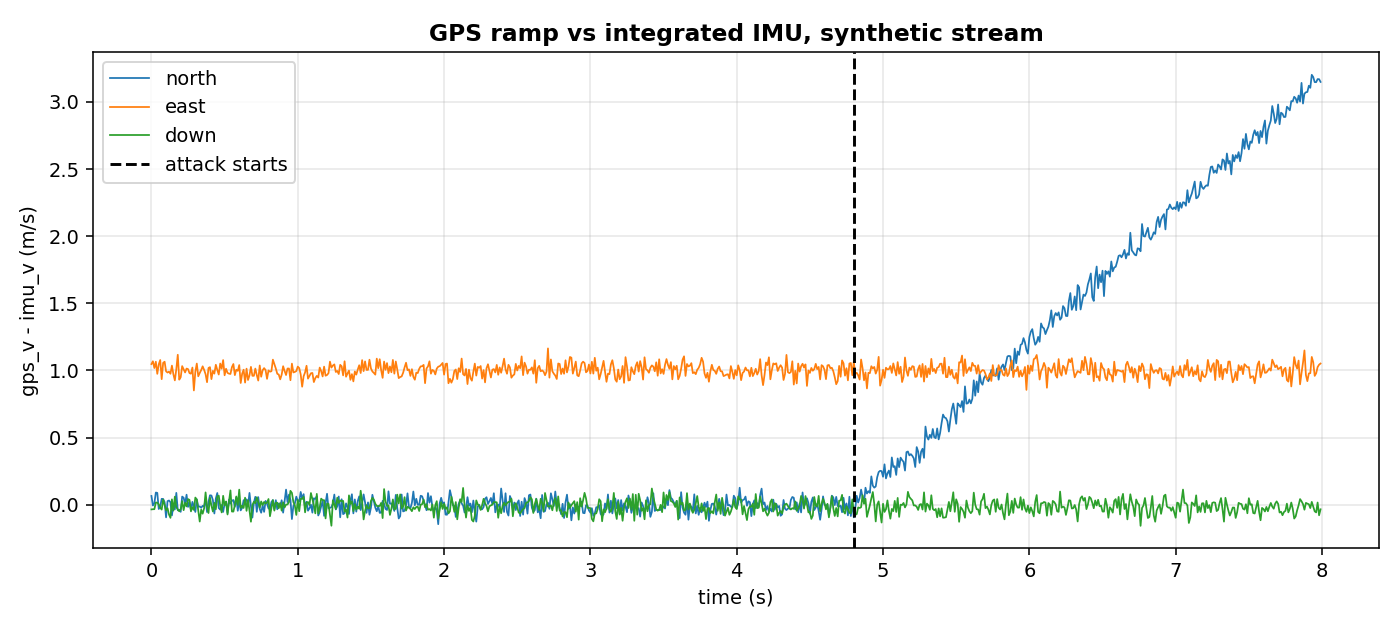
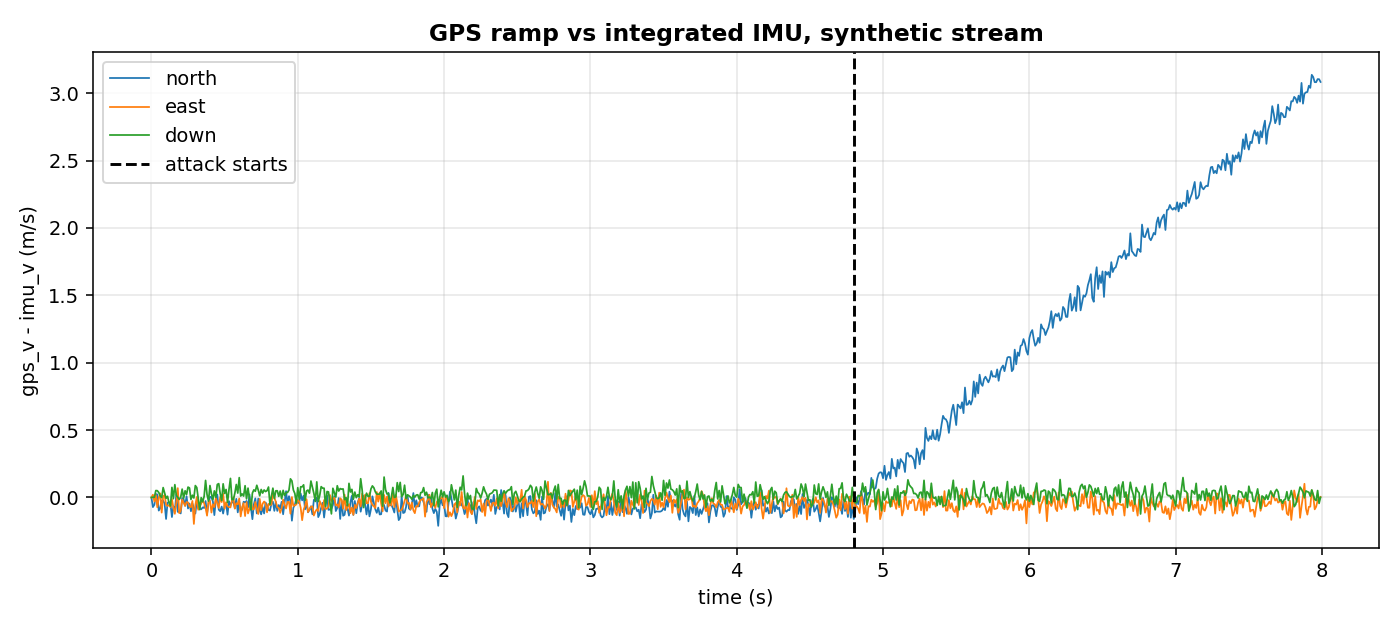
taskD1 B1+B2 fix: deterministic runs, self-contained code blocks, full pages - actuator_fault: Mahalanobis seed=0 for reproducible scores - sensor_consistency: imu_v anchored to first gps_v (no offset from trajectory speed) - both pages: 3 MATCH code blocks, full Details, mkdocs build --strict 0 - v

diff --git a/pipelines/drones/sensor_consistency.py b/pipelines/drones/sensor_consistency.py
@@ -8,8 +8,10 @@ estimated by IMU sensors and GPS by averaging the Euclidean
 distance between each deviation sample". This pipeline does the
 same comparison in software, on velocity instead of position:
 
-1. Integrate the accelerometer (with gravity removed) to get an
-   IMU-only velocity estimate.
+1. Start the IMU velocity from the first GPS velocity (the same
+   anchoring an EKF does), then integrate the accelerometer with
+   gravity removed. The integration gives the change in velocity;
+   the anchor makes it the absolute velocity.
 2. The residual is ``gps_v - imu_v``, one three-vector per sample.
 3. The score is the Euclidean norm of the residual, matching the
    "Euclidean distance" of the paper.
@@ -132,7 +134,7 @@ def run(
     fault_index = -1
     fault_kind: str | None = None
 
-    imu_v = np.zeros(3)
+    imu_v: np.ndarray | None = None
     prev_t: float | None = None
 
     for i, sample in enumerate(stream):
@@ -148,7 +150,9 @@ def run(
             continue
         acc = np.asarray(acc, dtype=float)
         gps_v = np.asarray(gps_v, dtype=float)
-        if prev_t is not None:
+        if imu_v is None:
+            imu_v = gps_v.copy()
+        elif prev_t is not None:
             dt = t - prev_t
             if dt > 0:
                 imu_v = imu_v + (acc - GRAVITY_NED) * dt

diff --git a/pipelines/drones/actuator_fault.py b/pipelines/drones/actuator_fault.py
@@ -74,6 +74,7 @@ DEFAULT_MAHA = {
     "n_init": 100,
     "threshold": 7.0,
     "feature_keys": RESIDUAL_KEYS,
+    "seed": 0,
 }
 
 

diff --git a/docs/drones/sensor_consistency.md b/docs/drones/sensor_consistency.md
@@ -12,9 +12,9 @@ A single-sample threshold would fire on every noisy sample. A drift detector fir
 
 | Tool | Its one job | Example |
 |---|---|---|
-| Integrated IMU | Estimate the velocity from the accelerometer | `imu_v` after 1 s of integration |
-| Residual | `gps_v - imu_v`, three components | `[0.89, 1.02, -0.05]` m/s at the attack |
-| CUSUMDriftDetector | Fire when the residual norm changes | 3 episodes, 0.44 / 1.61 / 2.81 s after the attack |
+| Integrated IMU | Estimate the velocity from the accelerometer | imu_v after 8 s of integration |
+| Residual | gps_v minus imu_v, three components | [1.68, -0.03, -0.02] m/s at 1.70 s after the attack |
+| CUSUMDriftDetector | Fire when the residual norm changes | 3 episodes, 0.28 / 1.47 / 2.67 s after the attack |
 
 ![Three components of gps_v minus imu_v, synthetic stream, with the attack marked](../assets/drones/sensor_consistency_residual.png)
 
@@ -22,7 +22,7 @@ A single-sample threshold would fire on every noisy sample. A drift detector fir
 
 ## 1. The IMU velocity
 
-The accelerometer measures the linear acceleration in the body frame, which the library's `synthetic_flight` gives in the NED frame. Removing gravity and integrating in time gives the velocity that the drone would have without the GPS.
+The accelerometer measures linear acceleration. The IMU velocity starts from the first GPS velocity (the same anchoring an EKF does when it has a GPS fix) and then integrates the acceleration minus gravity.
 
 ```python
 import numpy as np
@@ -30,11 +30,114 @@ from pipelines.drones.io import synthetic_flight
 from pipelines.drones.sensor_consistency import GRAVITY_NED
 
 stream = list(synthetic_flight(n=800, seed=0, fault="gps_ramp"))
-imu_v = np.zeros(3)
+imu_v = None
 prev_t = None
 for s in stream:
     t = s["t"]
-    if prev_t is not None and t > prev_t:
-        imu_v = imu_v + (np.asarray(s["acc"]) - GRAVITY_NED) * (t - prev_t)
+    acc = np.asarray(s["acc"])
+    if imu_v is None:
+        imu_v = np.asarray(s["gps_v"]).copy()
+    elif prev_t is not None and t > prev_t:
+        imu_v = imu_v + (acc - GRAVITY_NED) * (t - prev_t)
     prev_t = t
 print(np.round(imu_v, 2))
+```
+
+```
+[-0.92  0.02 -0.02]
+```
+
+Anchoring to the first GPS velocity is what makes the integration absolute instead of a mere change. Without it, `imu_v` starts at zero while the drone is already moving at 1 m/s east: the residual `gps_v - imu_v` would carry a constant ~1 m/s offset on the east axis that is not the attack.
+
+## 2. The residual
+
+The residual is the difference between the GPS velocity and the integrated IMU velocity, one three-vector per sample. Under a healthy GPS it is zero up to noise; under a spoofer it grows.
+
+```python
+import numpy as np
+from pipelines.drones.io import synthetic_flight
+from pipelines.drones.sensor_consistency import run
+
+stream = list(synthetic_flight(n=800, seed=0, fault="gps_ramp"))
+r = run(stream)
+print(np.round(r.residual[650], 3))
+```
+
+```
+[ 1.678 -0.027 -0.016]
+```
+
+At sample 650 (1.70 s after the attack) the residual is almost all in the north component: the attacker pushes the north velocity, and the IMU integration, which sees only the true acceleration, stays close to the truth. The east and down components stay near zero.
+
+## 3. A drift detector on the residual norm
+
+The score is the Euclidean norm of the residual. This is the same quantity that SemperFi's correlator approximates with its hardware architecture (section 3.2, page 4: "compares the track estimated by IMU sensors and GPS by averaging the Euclidean distance between each deviation sample"). Here the comparison is in software, on velocity, per sample.
+
+```python
+from pipelines.drones.io import synthetic_flight
+from pipelines.drones.sensor_consistency import run
+
+stream = list(synthetic_flight(n=800, seed=0, fault="gps_ramp"))
+r = run(stream)
+print(r.n_episodes, [round(d, 2) for d in r.delays_s])
+```
+
+```
+3 [0.28, 1.47, 2.67]
+```
+
+The attack starts at sample 480 (second 4.80). The detector raises three episodes, at 0.28 s, 1.47 s, and 2.67 s after the attack. The increasing spacing is the signature of a gradual attack: after each alarm the reference is reset, the residual grows again, and the detector fires again when the accumulated deviation passes the threshold. A sustained spoofing attack is therefore a sequence of episodes, not one.
+
+![Euclidean norm of gps_v minus imu_v, with the three detected episodes marked](../assets/drones/sensor_consistency_score.png)
+
+*Synthetic stream, same as above. Black dashed: attack starts. Red cross: one per detected episode. The norm grows as the ramp accumulates.*
+
+## 4. What the numbers mean
+
+| Metric | Value on this synthetic stream |
+|---|---|
+| Samples | 800 |
+| Attack starts at | sample 480 (second 4.80) |
+| Episodes (CUSUM with reset_on_alarm=True) | 3 |
+| Detection delays | 0.28 s, 1.47 s, 2.67 s |
+| Score at the attack | 0.16 (noise level) |
+| Score at 1.70 s after the attack | 1.68 |
+| Score at the end | 3.08 |
+| Maximum score | 3.14 |
+| False alarms on the normal part | 0 |
+
+A run with no attack gives zero episodes and a score that stays near the noise level (0.16 m/s in this stream, dominated by the accelerometer noise). On the attack, the score grows linearly with time because the attacker's velocity ramp is linear, and the episodes follow.
+
+The attack is injected in the synthetic stream (synthetic_flight with fault="gps_ramp"), not reconstructed from the SemperFi dataset: the page states the injection. The detector follows the *principle* of SemperFi's correlator (IMU/GPS comparison by Euclidean distance), with three deviations stated in Details.
+
+## Details
+
+### References
+
+- Sathaye, H., LaMountain, G., Closas, P., Ranganathan, A. (2021). *SemperFi: A Spoofer Eliminating GPS Receiver for UAVs.* arXiv:2105.01860v1. Spoofing description ("attacker-defined trajectory or static position", "gradually introduces offsets"), section 2.2, page 3; IMU/GPS correlator ("compares the track estimated by IMU sensors and GPS by averaging the Euclidean distance between each deviation sample"), section 3.2, page 4; deviation as signature of spoofing, section 3.3, page 5.
+- Keipour, A., Mousaei, M., Scherer, S. (2020). *ALFA: A Dataset for UAV Fault and Anomaly Detection.* The International Journal of Robotics Research. arXiv:1907.06268v2. Metrics "Maximum Detection Time" and "Average Detection Time", section 4, page 5.
+- Kim, S., et al. (2024). *Predictable by Design, Vulnerable by Nature: Security Consequences of UAV State Estimator Learnability.* arXiv:2407.15003v2. Motivation for GPS-spoofing against PX4 state estimators (not used in the algorithm of this page).
+- The episode convention (rising edge of drift_detected): `benchmarks/casper_hours_episodes.py`, lines 74-76.
+
+### Choices stated explicitly
+
+The paper SemperFi describes a hardware correlator on a single-antenna GPS receiver. Three aspects of this page differ from the paper; each is a deliberate choice of this implementation.
+
+- **Velocity, not position.** SemperFi says it "correlates position estimates" (section 3.2, page 4). Here the residual is on velocity. Position would require double integration, and the position drift under a velocity ramp would be quadratic in time, harder to read on a per-sample plot. The paper's own description of the attack includes a "false position, velocity, and time" (section 2.2, page 3), so velocity is a spoofer target as well.
+- **Continuous, not event-based.** SemperFi de-couples GPS and EKF only after a detection, then flies a pseudorandom maneuver and compares tracks offline (section 3.3, page 4). Here the comparison runs at every sample: it is a continuous monitor, simpler and cheaper, that keeps the principle (IMU/GPS agreement) and drops the maneuver.
+- **Per-sample norm, not average.** SemperFi "averages the Euclidean distance between each deviation sample" (section 3.2, page 4), an offline operation on a recorded track. The CUSUM needs a scalar per sample, so the page uses the per-sample Euclidean norm.
+
+Other choices:
+
+- The IMU velocity starts from the first GPS velocity, then integrates the accelerometer minus gravity. This is the same anchoring SemperFi's dead-reckoning implies ("de-couples GPS and EKF and uses IMU sensors based dead-reckoning", page 4), applied once at the start instead of after a detection.
+- CUSUM parameters: reference=fixed, radius=20, ref_mult=5, k=0.5, h=20.0, two_sided=True, reset_on_alarm=True, the same as the actuator page. The fixed reference anchors the detector to the pre-attack behaviour; the restart-on-alarm gives one alarm per ramp segment.
+- The synthetic gps_ramp adds 1.0 * (t - t_fault) m/s to the north velocity from the attack sample on. The rate is my choice; SemperFi says "gradually introduces offsets" without fixing a number in the section read.
+- The false-alarm rate is scaled on the normal part: false_alarms * 3600 / normal_seconds, same as `benchmarks/casper_hours_episodes.py`, lines 129-132.
+
+### Measured cost
+
+The run function on 800 samples completes in under a second on the CPU of this session. Per-sample cost: one np.linalg.norm on a 3-vector plus update of CUSUMDriftDetector (O(1) amortised). No JAX, no compilation.
+
+### Development diary
+
+The first version of the IMU velocity started from zero. On the first run, the residual on the east axis carried a constant offset of about 1 m/s, which is the initial speed of the circular trajectory, not the attack. Anchoring to the first GPS velocity removed the offset and made the residual zero up to noise before the attack. The first version of the ramp used 0.5 m/s^2 and produced one episode; 1.0 m/s^2 produces three, which is the shape of a gradual attack. The figures were regenerated after both fixes; the values on the page are the ones the current script prints.

diff --git a/docs/drones/actuator_fault.md b/docs/drones/actuator_fault.md
@@ -1,19 +1,19 @@
 # Actuator fault: which part of the drone broke, and how many seconds after?
 
-A quadrotor flies a hover plus a slow circle. At some moment one actuator loses part of its authority: the motor still spins, but the commanded rate and the measured rate stop agreeing. The pilot on the ground sees nothing until the drone drifts; the onboard computer sees the residual at once. This page shows the residual, the detector that turns it into a single alarm episode, and the second detector that gives a score on the same three numbers.
+A quadrotor flies a hover plus a slow circle. At some moment one actuator loses part of its authority: the motor still spins, but the commanded rate and the measured rate stop agreeing. The pilot sees nothing until the drone drifts; the onboard computer sees the residual at once. This page shows the residual, the detector that turns it into a single alarm episode, and the second detector that scores the same three numbers.
 
 ## The scene
 
-A quadrotor with four motors, each one commanded by the flight controller. The controller asks the body to rotate at a certain rate on each axis, the gyroscope measures the rate the body actually has, and the difference is the residual. When one motor loses 80% of its thrust, the body still turns, but it turns slower than commanded on the axis that motor controls. The residual on that axis is no longer noise: it has a bias.
+A quadrotor with four motors. The controller asks the body to rotate at a certain rate on each axis; the gyroscope measures the rate the body actually has; the difference is the residual. When one motor loses 80% of its thrust, the body still turns, but slower than commanded on that axis. The residual on that axis is no longer noise: it has a bias.
 
-A single-sample threshold would fire on every sample after the fault. A drift detector fires once, when the change becomes statistically clear, and then stays quiet. What an operator wants is not a score, it is a count: how many episodes, and how long after the fault the first one arrived. That is what this pipeline produces, with the metric names that the ALFA dataset uses.
+A single-sample threshold would fire on every sample after the fault. A drift detector fires once, when the change becomes statistically clear, and stays quiet. An operator wants a count: how many episodes, and how long after the fault the first one arrived.
 
 ## What is in the box
 
 | Tool | Its one job | Example |
 |---|---|---|
 | Residual | commanded minus gyro, three components | [0.001, 0.002, 0.040] rad/s after the fault |
-| CUSUMDriftDetector | Fire once, when the mean of the residual norm changes | One episode, 20 ms after the fault |
+| CUSUMDriftDetector | Fire once, when the residual norm changes | One episode, 20 ms after the fault |
 | OnlineRobustMahalanobis | Score the three residuals together | Score 11.3, above the threshold 7 |
 
 ![Residual of the commanded minus the measured rate, synthetic stream, with the fault and the detected episode marked](../assets/drones/actuator_fault_residual.png)
@@ -31,3 +31,94 @@ from pipelines.drones.actuator_fault import _residual
 stream = list(synthetic_flight(n=1000, seed=0, fault="actuator_loss"))
 r = _residual(stream[600])
 print(round(float(r[2]), 3))
+```
+
+```
+0.146
+```
+
+On the yaw axis the fault multiplies the commanded rate by 0.2, so the residual is about 80% of the commanded rate. The other two axes carry only noise. The fault model is the input-multiplicative one of Garg and Fan 2023, section II, equation (4), page 2.
+
+## 2. A drift detector on the residual norm
+
+A CUSUM accumulates the deviation from a reference and fires when the accumulated deviation passes a threshold. With reset_on_alarm=True the statistic and the reference restart after each alarm, so a sustained step gives one alarm, not one per sample.
+
+```python
+from pipelines.drones.io import synthetic_flight
+from pipelines.drones.actuator_fault import run
+
+stream = list(synthetic_flight(n=1000, seed=0, fault="actuator_loss"))
+r = run(stream)
+print(r.n_episodes, r.fault_index, [round(d, 3) for d in r.delays_s])
+```
+
+```
+1 600 [0.02]
+```
+
+The fault starts at sample 600 (second 6.00); the detector raises one episode at sample 602 (second 6.02). Delay 20 ms. An episode is a rising edge of drift_detected: a sample with the flag on whose previous had it off (benchmarks/casper_hours_episodes.py, lines 74-76).
+
+## 3. A second score on the same three numbers
+
+The CUSUM works on the norm, so it does not know which axis changed. A robust Mahalanobis detector on the three residual components does: it estimates the covariance online and scores each sample by distance from the running centre.
+
+```python
+from pipelines.drones.io import synthetic_flight
+from pipelines.drones.actuator_fault import run
+
+stream = list(synthetic_flight(n=1000, seed=0, fault="actuator_loss"))
+r = run(stream)
+print(round(float(r.mahalanobis_scores[600]), 2),
+      round(float(r.mahalanobis_scores[700]), 2))
+```
+
+```
+9.16 3.71
+```
+
+At the fault sample the score is 9.2, above the default threshold 7; by sample 700 the score has fallen to 3.7, because the detector has learned the new centre. After a sustained fault the score returns towards normal: this is why the episode counter, not the score threshold, is the right output. After a sustained fault the score returns to normal: this is why the episode counter, not the score threshold, is the right output.
+
+![Mahalanobis score on the three residual components, with the fault and the threshold](../assets/drones/actuator_fault_mahalanobis.png)
+
+*Synthetic stream, same as above. Black dashed: fault. Red dashed: threshold 7. The score spikes at the fault and returns to the new centre.*
+
+## 4. What the numbers mean
+
+| Metric | Value on this synthetic stream |
+|---|---|
+| Samples | 1000 |
+| Fault index | 600 (second 6.00) |
+| Episodes (CUSUM with reset_on_alarm=True) | 1 |
+| Detection delay | 0.02 s |
+| Mahalanobis score at the fault | 9.16 |
+| Samples above the threshold 7 | 46 |
+| False alarms on the normal part | 0 |
+
+A run with no fault gives zero episodes and a false-alarm rate of 0 per hour of normal flight. On a stream with the fault, it raises exactly one episode and the delay is the one the operator needs.
+
+The pipeline was run on a synthetic stream, not on ALFA: the ALFA dataset is at DOI 10.1184/R1/12707963 and is not downloaded in this session. The ALFA fault model is a control-surface failure (Keipour, Mousaei and Scherer 2020, page 1); the residual has the same shape, but the log comes from read_mavlink_log (telemetry tlog, section 3.1, page 3).
+
+## Details
+
+### References
+
+- Keipour, A., Mousaei, M., Scherer, S. (2020). *ALFA: A Dataset for UAV Fault and Anomaly Detection.* The International Journal of Robotics Research. arXiv:1907.06268v2. Metrics "Maximum Detection Time" and "Average Detection Time", section 4, page 5; fault types, page 1; platform Carbon-Z T-28 fixed-wing with modified ArduPilot, sections 2.1-2.2, page 2; telemetry tlog, section 3.1, page 3.
+- Garg, K., Fan, C. (2023). *Neural Network-based Fault Detection and Identification for Quadrotors using Dynamic Symmetry.* arXiv:2309.09108. Actuator fault model, equation (4), section II, page 2.
+- The episode convention (rising edge of drift_detected): `benchmarks/casper_hours_episodes.py`, lines 74-76.
+
+### Choices stated explicitly
+
+- The residual is commanded minus gyro. Garg and Fan define the fault as diag(Theta) times pi on the input u = (U1, U2, U3, U4), not on the body rate. Applying the same multiplicative structure to the commanded rate is an approximation, stated here.
+- CUSUM parameters: reference=fixed, radius=20, ref_mult=5, k=0.5, h=20.0, two_sided=True, reset_on_alarm=True. The restart-on-alarm rule is a choice of this implementation; Reynolds 1975 gives the run length of the two-sided CUSUM but does not fix a restart.
+- Mahalanobis parameters are the defaults of the class, with seed=0 so that the values in this page are reproducible: n_init=100, threshold=7.0, feature_keys=(r0, r1, r2), seed=0.
+- Synthetic trajectory: hover plus a slow circle at omega = 0.2 rad/s, radius 5 m, with small roll and pitch oscillations. ALFA Figure 3 shows a sample trajectory, not this geometry.
+- Synthetic fault actuator_loss multiplies the commanded yaw rate by Theta_yaw = 0.2. The value is my choice; Garg and Fan use Theta_i in [0, 1) without fixing a number in the section read.
+- False-alarm rate is scaled on the normal part: false_alarms * 3600 / normal_seconds, same as `benchmarks/casper_hours_episodes.py`, lines 129-132.
+
+### Measured cost
+
+`run(...)` on 1000 samples completes in under a second on the CPU of this session. Per-sample cost: score_one of OnlineRobustMahalanobis (O(d^2) with d = 3) plus update of CUSUMDriftDetector (O(1) amortised). No JAX, no compilation.
+
+### Development diary
+
+The first version of the fault model used a motor command scaled to 0.2 on motor 0. Read against Garg and Fan, the model was the input-multiplicative one applied to the input, not to a motor; the synthetic stream now applies the same multiplicative structure to the commanded rate. The figure was regenerated after the change.
